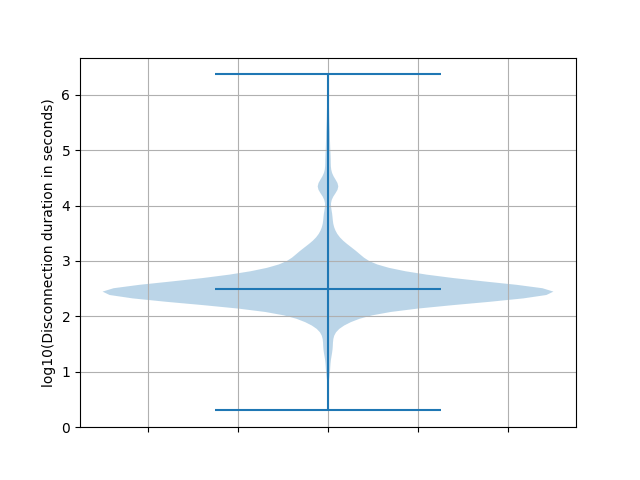
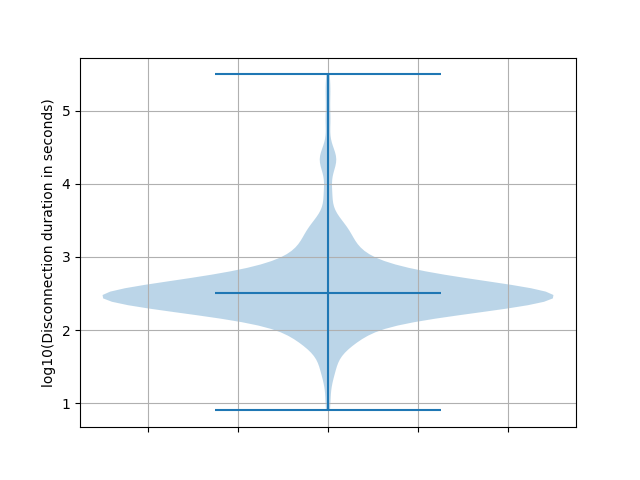
last week

diff --git a/atlas_outage.py b/atlas_outage.py
@@ -65,12 +65,24 @@ def plot_disco_duration(disco_duration,cc):
     fig.savefig('disco_duration_dist_{}.png'.format(cc))
     plt.close(fig)
 
+def plot_disco_time(disco_event):
+    merge_disco_time=[]
+    for d in disco_event.values():
+        merge_disco_time = merge_disco_time + d
+    fig, ax = plt.subplots()
+    ax.scatter(merge_disco_time)
+    #ax.set_yscale("log", nonposy='clip')
+    ax.grid(True)
+    plt.ylabel('Disconnection time')
+    fig.savefig('disco_time_dist_{}.png'.format(cc))
+    plt.close(fig)
+
 if __name__ == "__main__":
-    #start_time = '1520623355'
-    start_time = '1518363868'
+    start_time = '1520630104'
+    #start_time = '1518363868'
     end_time = time.time()
     #cc = 'LB'
-    cc = 'BE'
+    cc = 'FR'
     conn_event, disco_event = get_events(cc,start_time,end_time)
     disco_duration = analyze_events(conn_event,disco_event,start_time)
     plot_disco_duration(disco_duration,cc)
